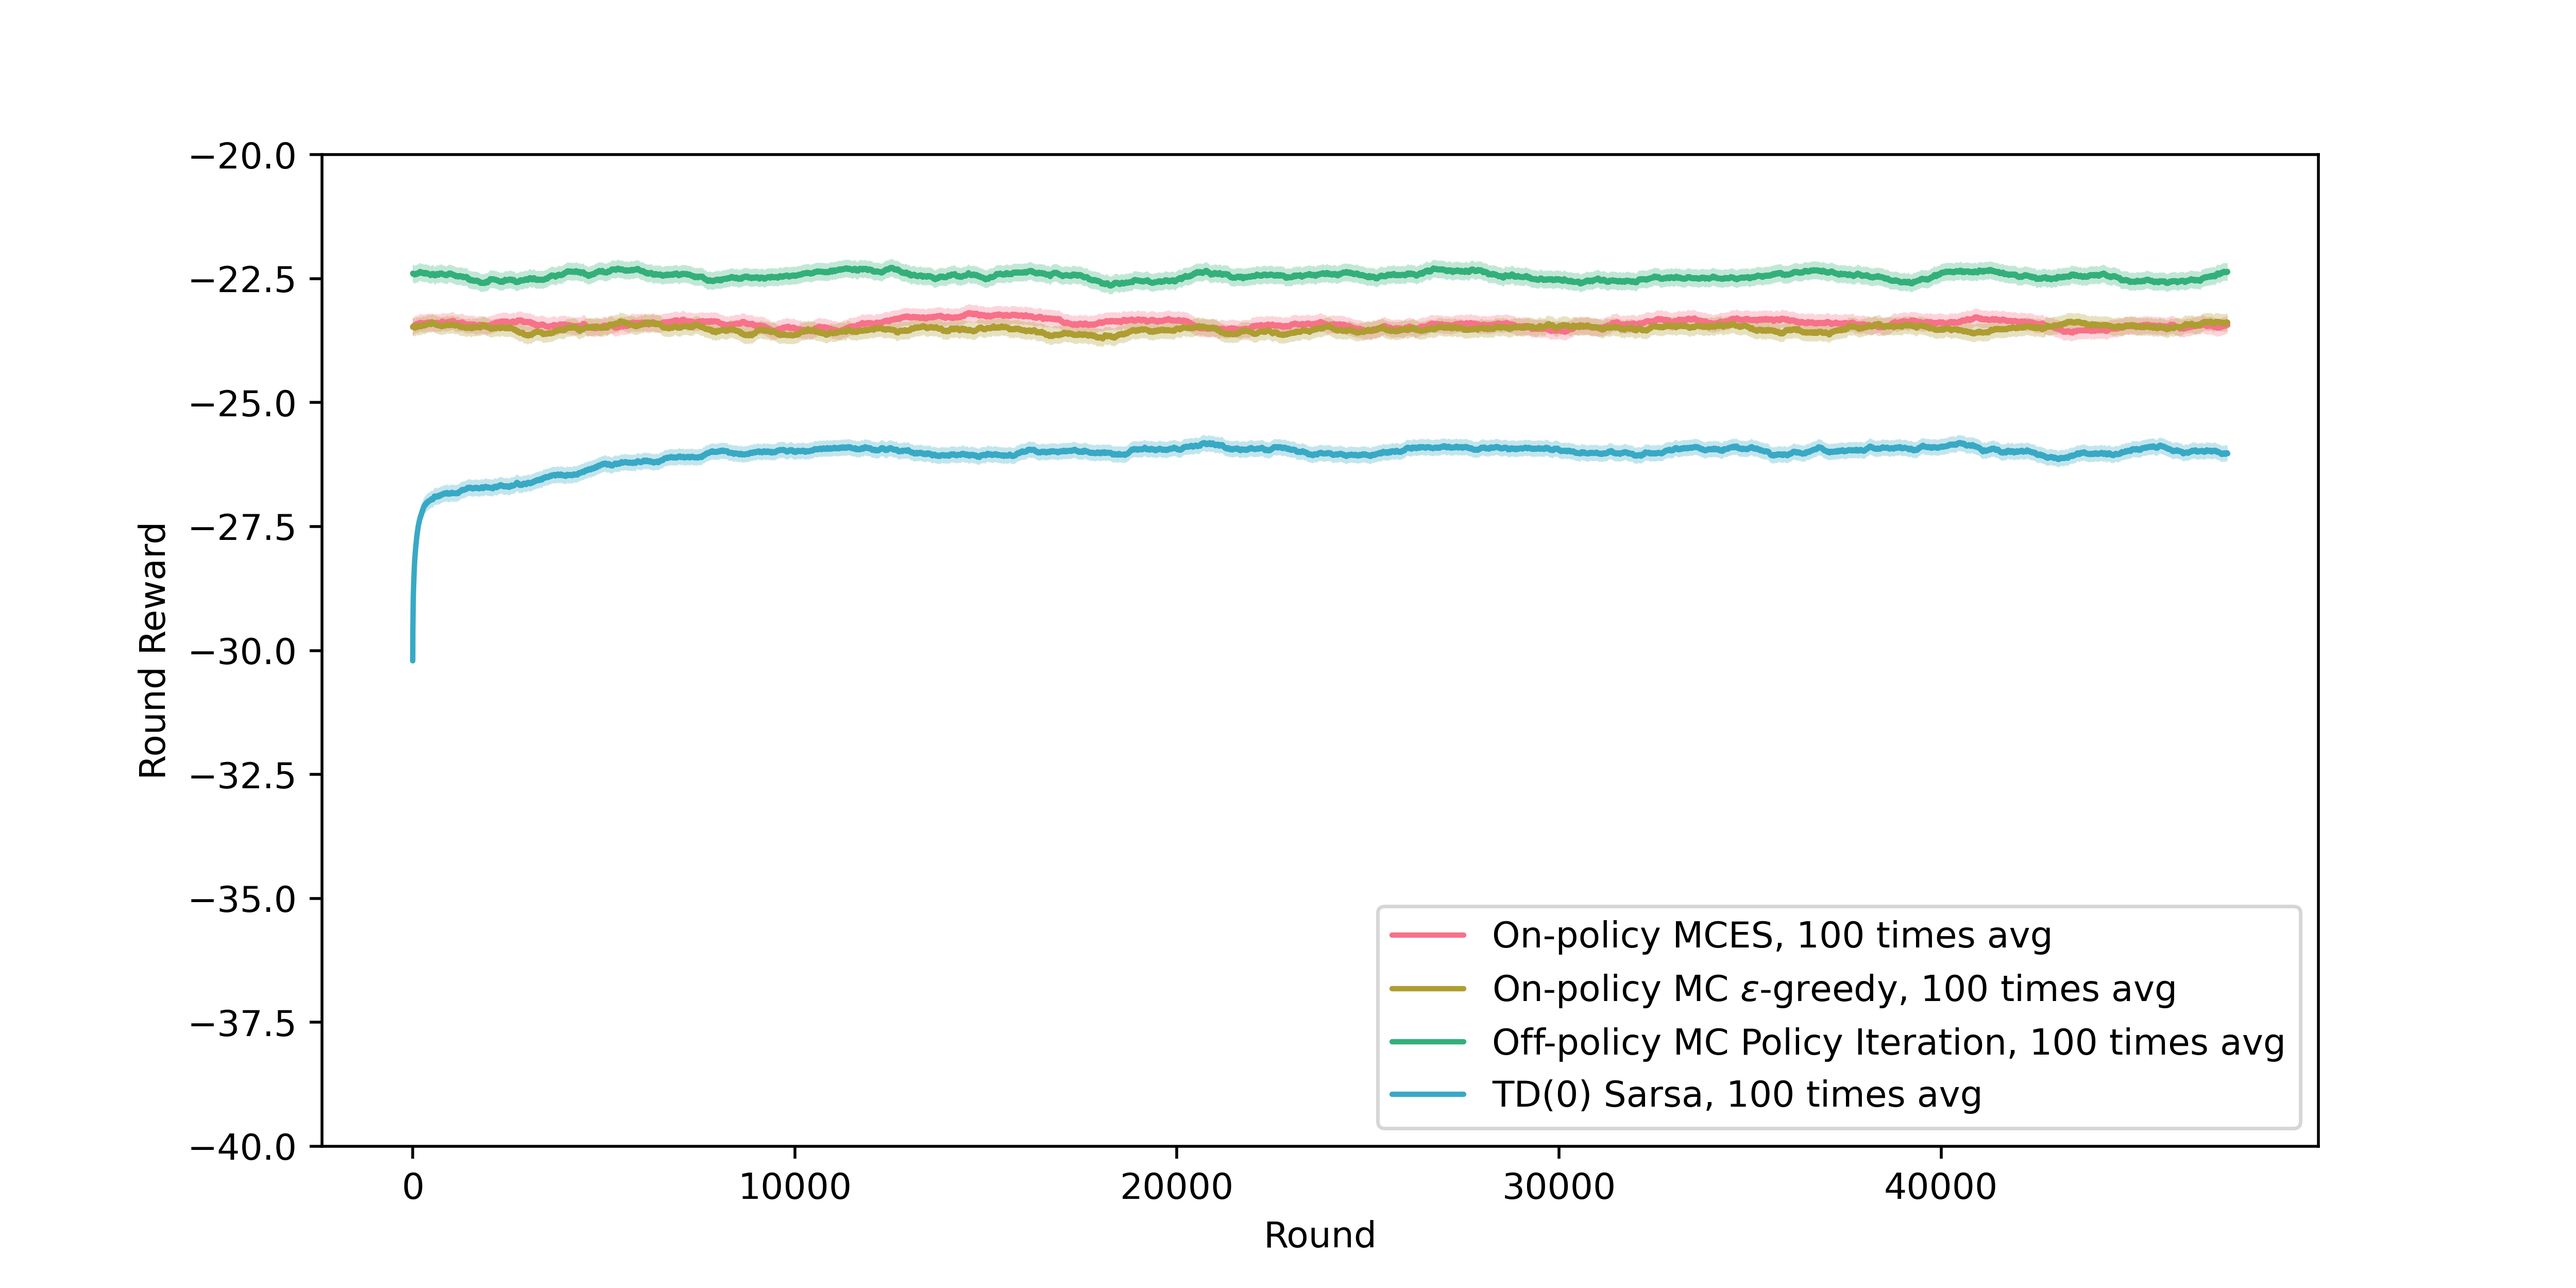
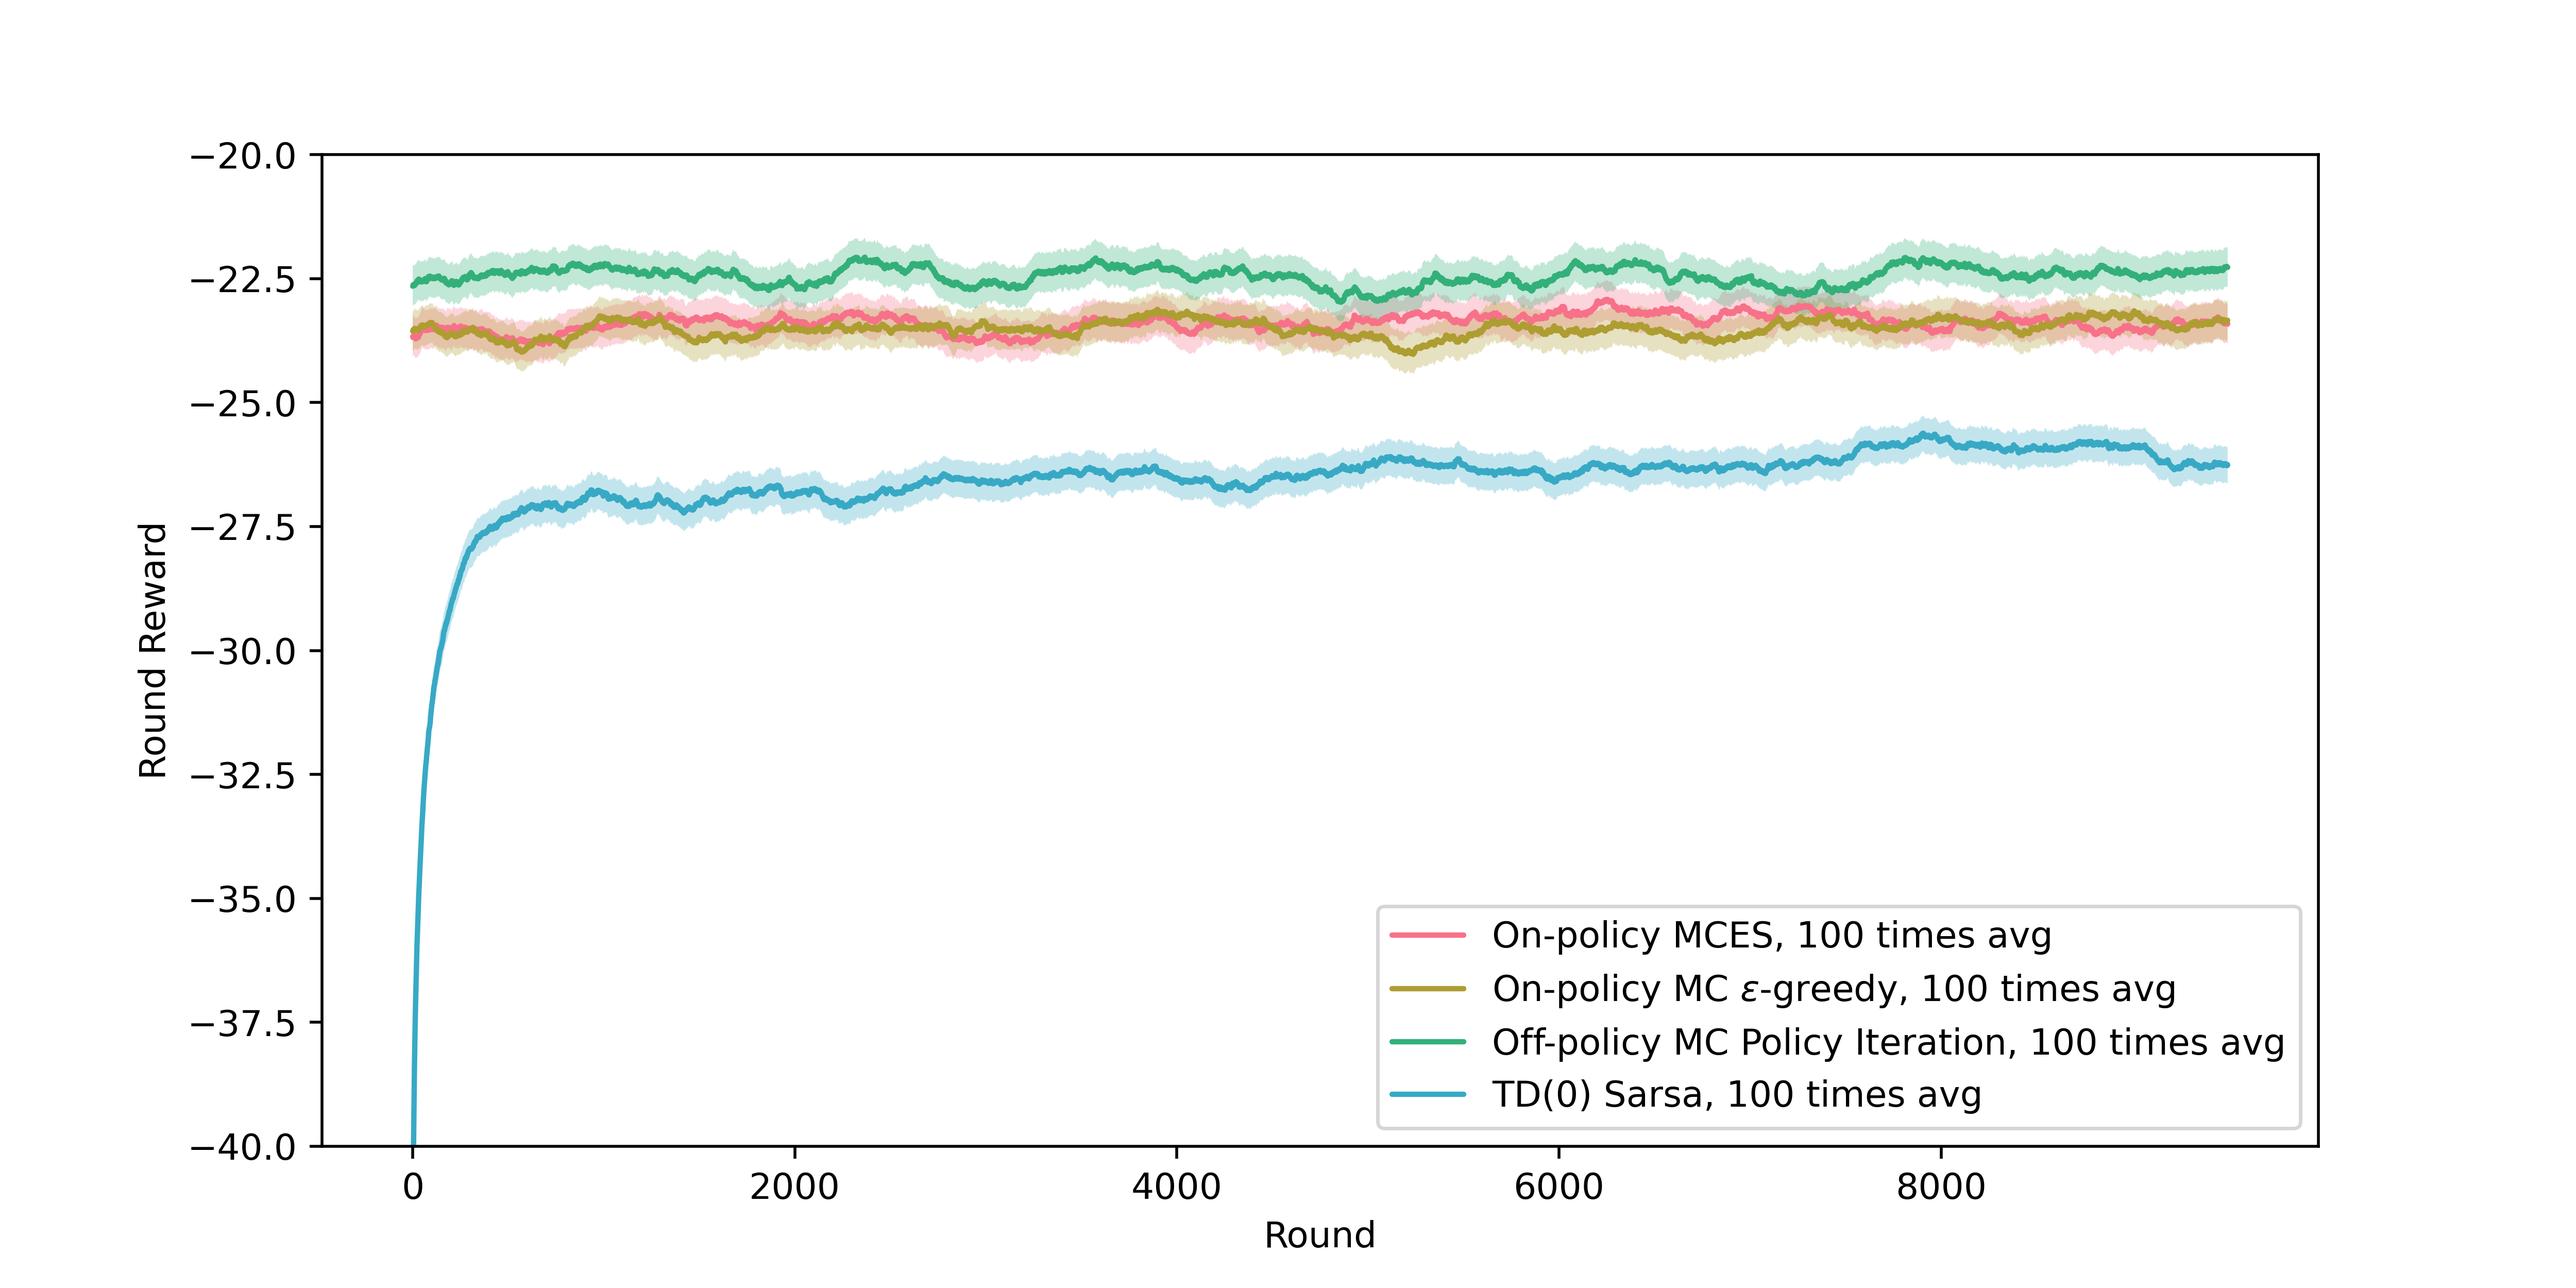
add 说明

diff --git a/mctd/mc.py b/mctd/mc.py
@@ -5,7 +5,7 @@ from matplotlib import pyplot as plt
 import seaborn as sns
 from concurrent.futures import ProcessPoolExecutor, wait
 H, W = 4, 12
-STEPS = 50_000
+STEPS = 10_000
 TOTAL_EXPERIMENTS = 100
 RW_CLASSES = [
     CliffStatesv2,

diff --git a/mctd/说明.md b/mctd/说明.md
@@ -1,0 +1,7 @@
+# 代码组成
+1. `mc.py` 主实验代码。每轮进行10K轮(episode)随机游走，100轮结果取平均。
+2. `utils.py` 提供四种MC/TD(0)算法实现. 分别是MCES法, $\varepsilon$-greedy的On-Policy MC法, Off-Policy的MC法策略迭代(采用$\varepsilon$-greedy探索策略),和On-Policy Sarsa法(采用$\varepsilon$-greedy策略).
+
+# 实验结果
+![](mc.png)
+实验结果如上图。可以看到, 带重要度采样的Off-Policy MC法优于两种On-Policy MC法, 优于Sarsa.
